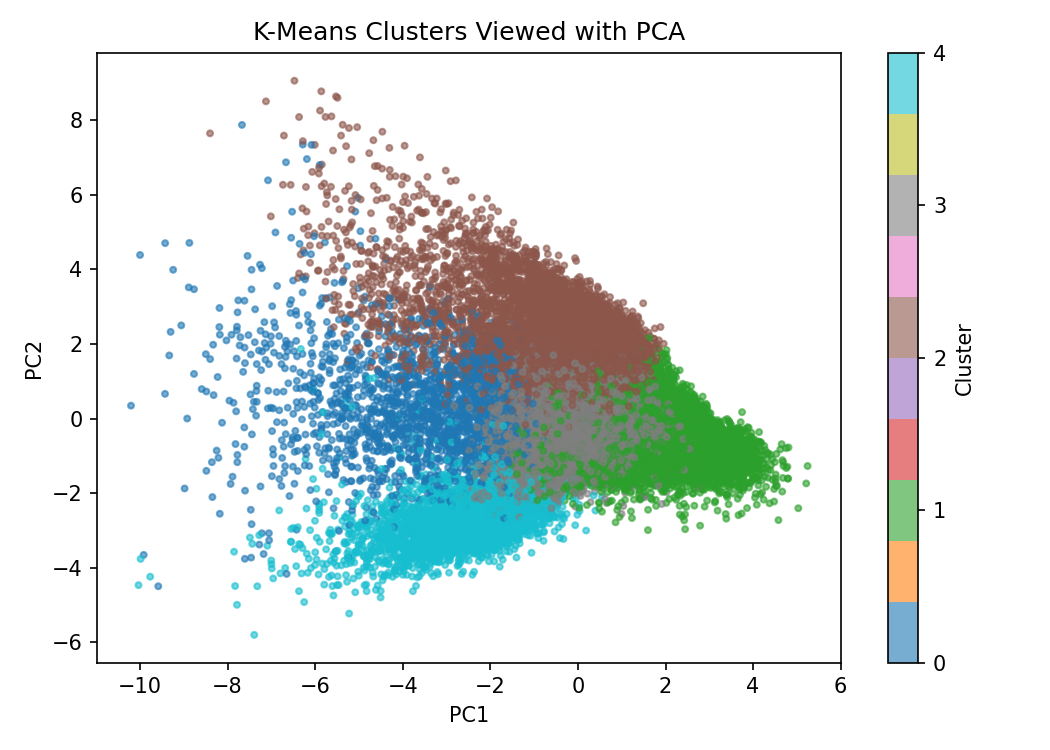
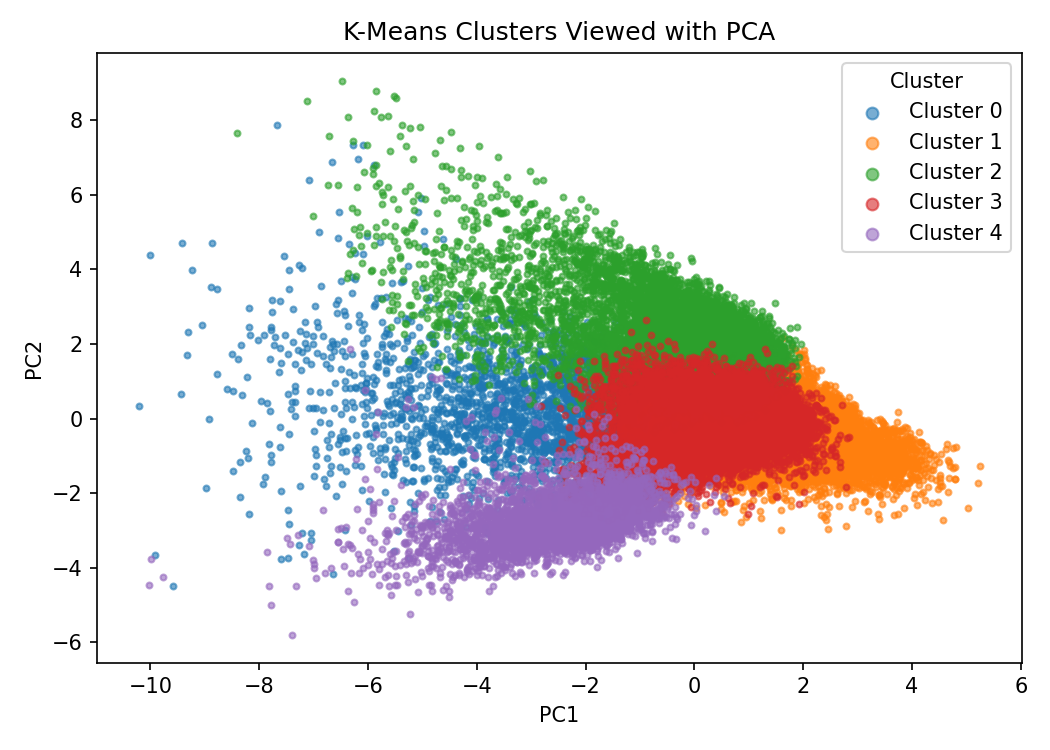
Replace cluster colorbars with legends in K-Means plots

diff --git a/src/clustering.py b/src/clustering.py
@@ -1,4 +1,5 @@
 import pandas as pd
+from sklearn.manifold import TSNE
 from sklearn.metrics import calinski_harabasz_score, davies_bouldin_score, silhouette_score
 
 
@@ -72,6 +73,31 @@ def create_cluster_profile(df, cluster_column="cluster", columns=None):
     ]
 
     return profile
+
+
+def create_tsne_projection(X, labels, customer_ids=None, sample_size=5000, random_state=42):
+    sample_size = min(sample_size, len(X))
+    sample_indices = pd.Series(range(len(X))).sample(
+        n=sample_size,
+        random_state=random_state,
+    ).tolist()
+
+    X_sample = X.iloc[sample_indices]
+    sampled_labels = pd.Series(labels).iloc[sample_indices].reset_index(drop=True)
+
+    tsne = TSNE(n_components=2, random_state=random_state)
+    projection = tsne.fit_transform(X_sample)
+
+    tsne_df = pd.DataFrame({
+        "tsne_1": projection[:, 0],
+        "tsne_2": projection[:, 1],
+        "cluster": sampled_labels,
+    })
+
+    if customer_ids is not None:
+        tsne_df["customer_id"] = pd.Series(customer_ids).iloc[sample_indices].reset_index(drop=True)
+
+    return tsne_df
 
 
 def save_cluster_assignments(customer_ids, labels, output_path):